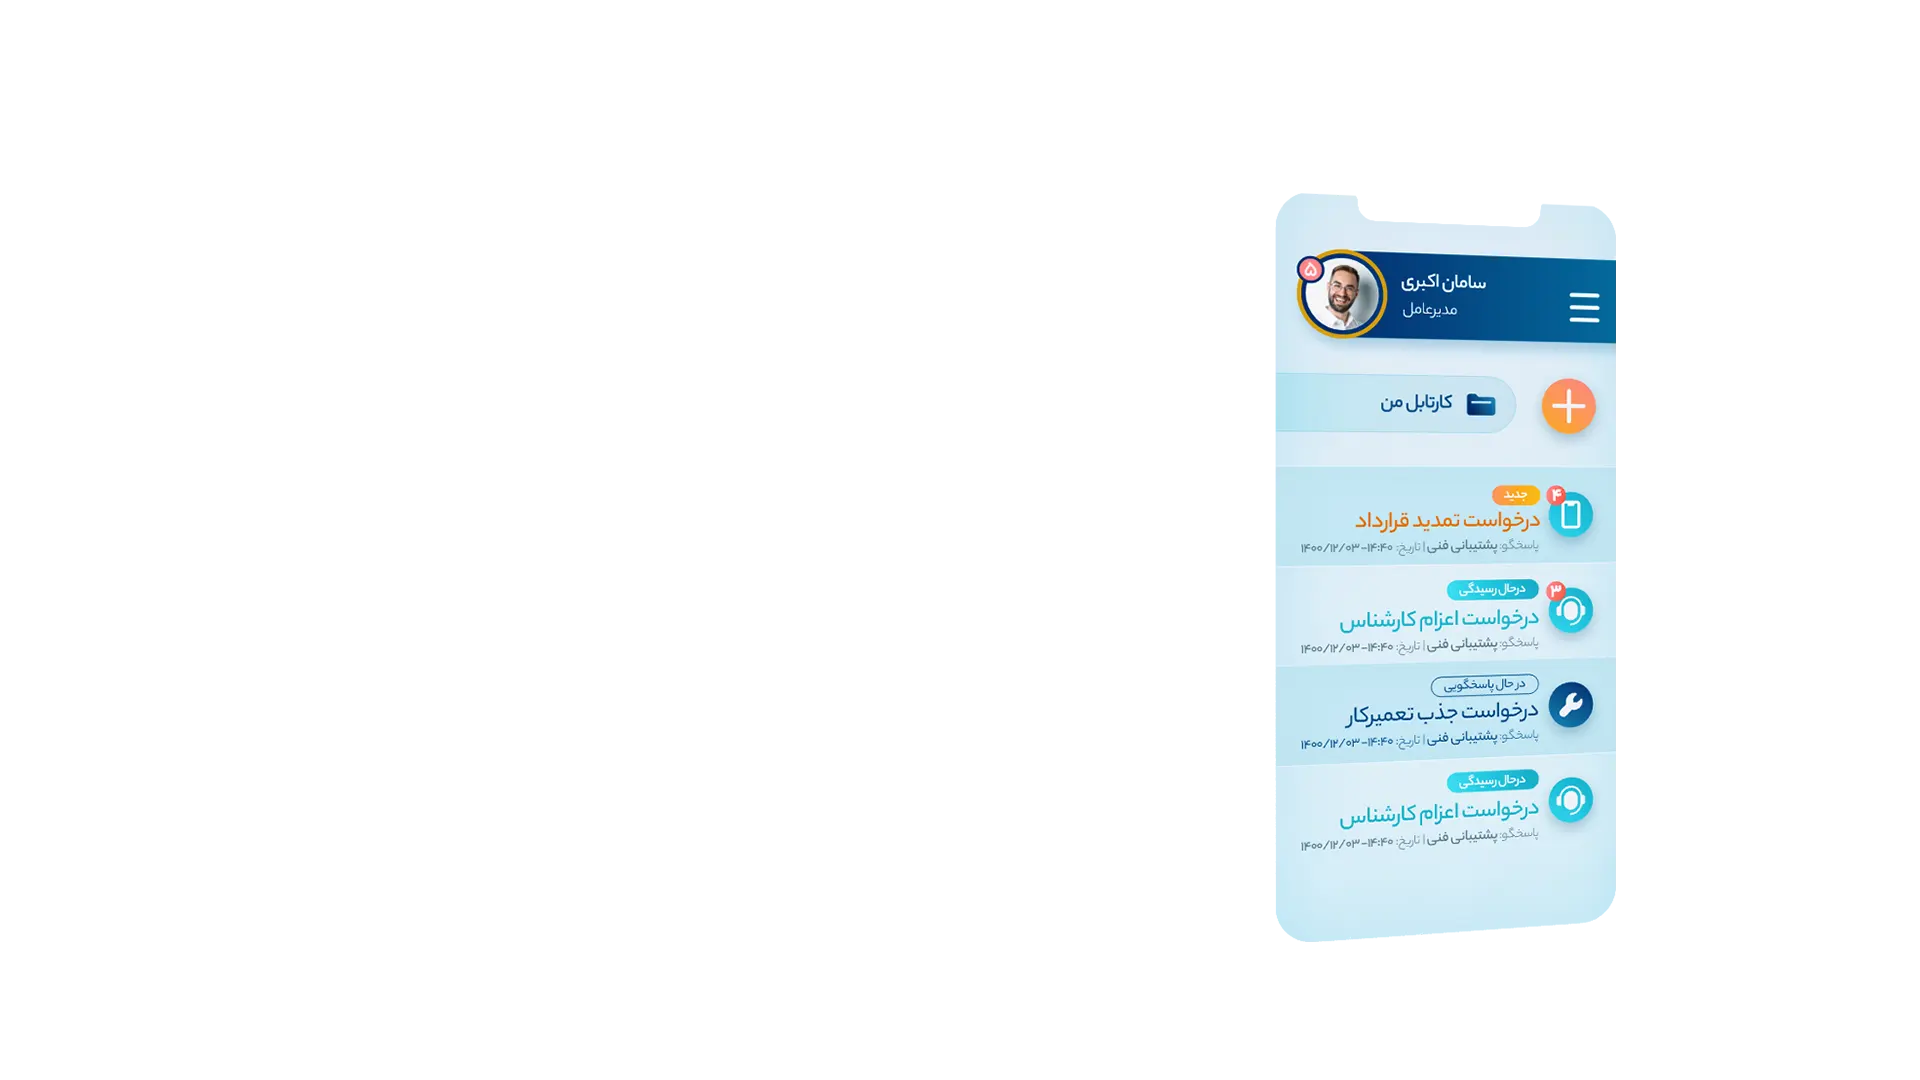
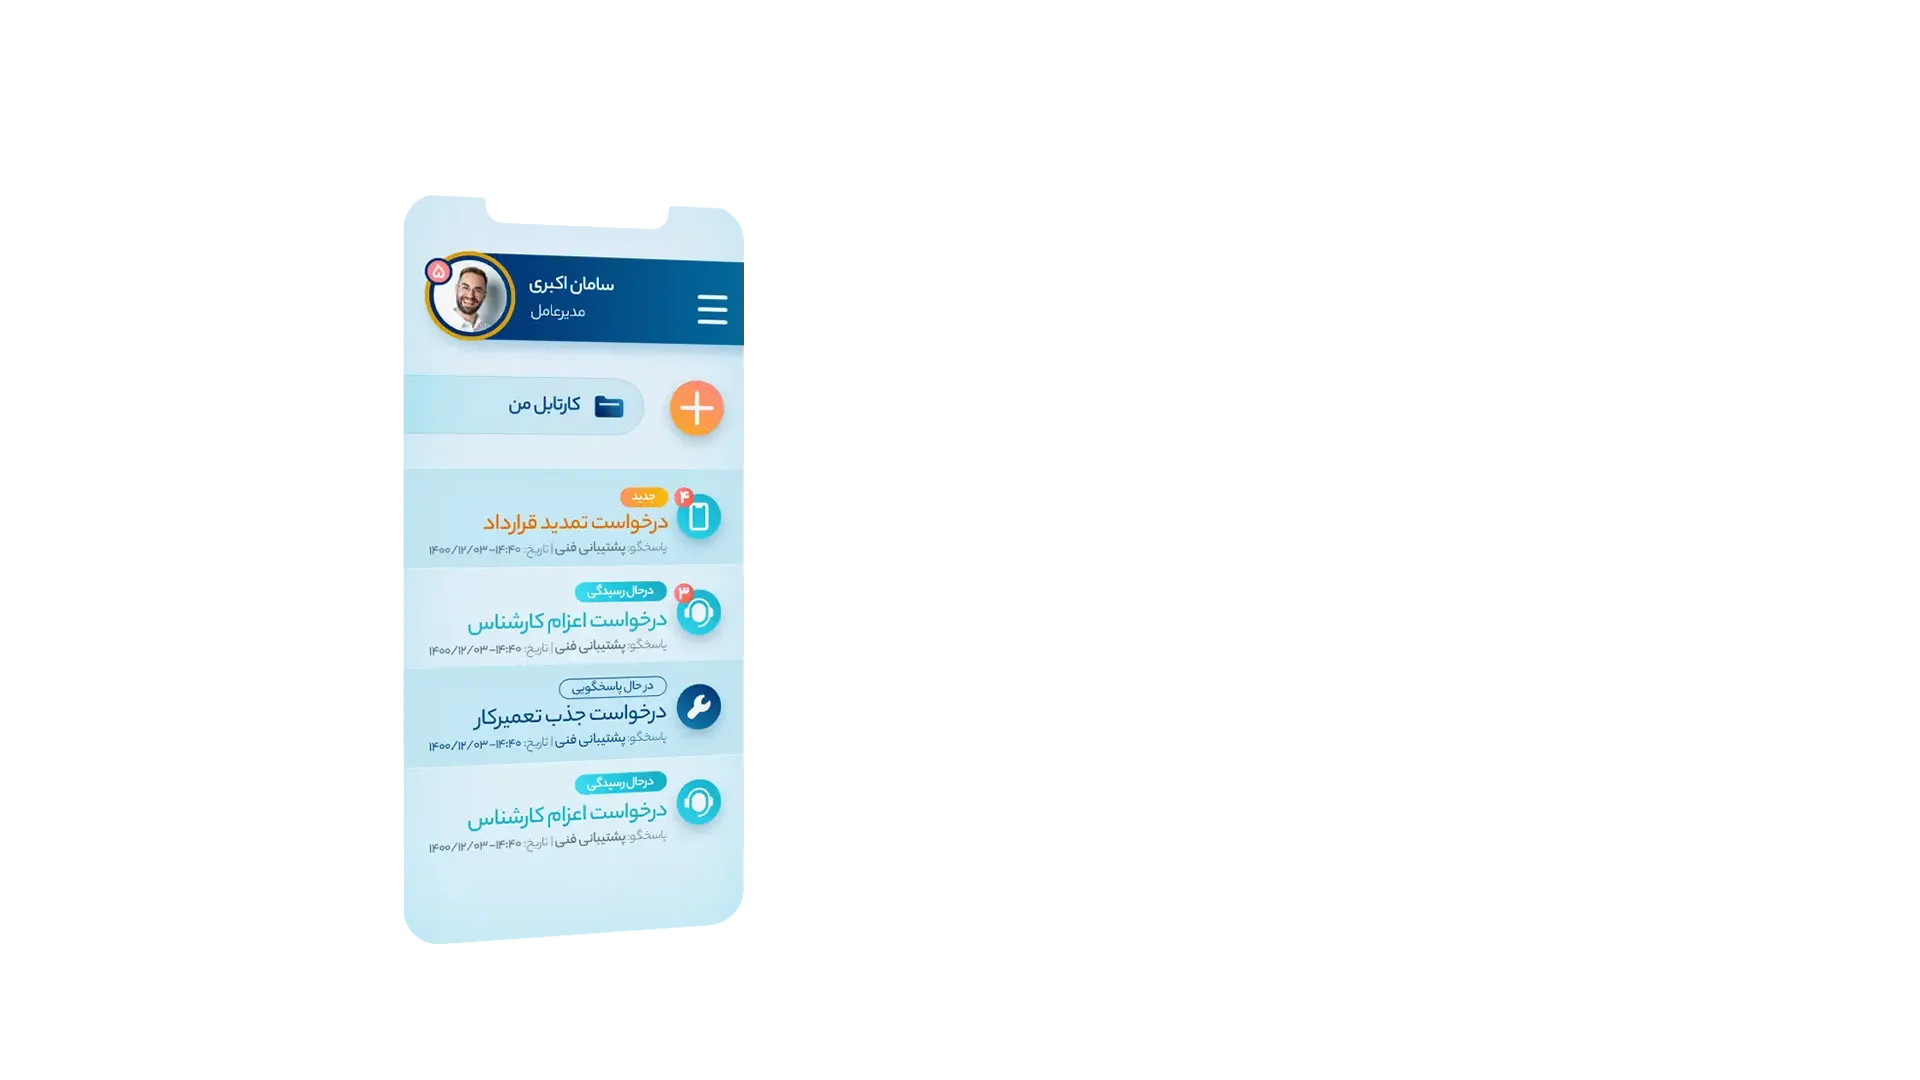
fix(advantages): fix section 4

Changed region(s): [[0.1875, 0.1833, 0.4062, 0.8861], [0.6562, 0.1833, 0.8438, 0.8861]]

diff --git a/src/components/Advantage/index.tsx b/src/components/Advantage/index.tsx
@@ -66,7 +66,7 @@ export default function Advantage() {
   const backgroundImageStyle = useSpring({
     from: { opacity: 1 },
     to: { opacity: index > 3 ? 0 : 1 },
-    delay: 1000,
+    delay: 1000 > 2 ? 0 : 1000,
     config: { duration: 500, easing: easings.easeOutQuart },
   });
 
@@ -76,15 +76,15 @@ export default function Advantage() {
       opacity: index > 3 ? 1 : 0,
       transform:
         index === 4
-          ? "scale(1) translateX(0%)"
+          ? "scale(1)"
           : index === 5 || index === 6
-          ? "scale(1) translateX(-90%)"
+          ? "scale(1)"
           : index > 6
-          ? "scale(0.8) translateX(-109%)"
-          : "scale(0.8) translateX(-109%)",
-      transformOrigin: index > 6 ? "left top" : "center",
+          ? "scale(0.8)"
+          : "scale(0.8)",
+      transformOrigin: index > 3 ? "left top" : "center",
     },
-    delay: index === 3 ? 1500 : 0,
+    delay: index > 4 ? 1500 : 0,
     config: { duration: 500, easing: easings.easeOutQuart },
   });
 
@@ -241,7 +241,7 @@ const CircleBack = styled(animated.div)`
   );
   position: absolute;
   top: 8vw;
-  right: 5.6vw;
+  left: 5.6vw;
   z-index: 20;
 `;
 

diff --git a/src/components/Advantage/advantageItems/index.tsx b/src/components/Advantage/advantageItems/index.tsx
@@ -65,12 +65,12 @@ export default function AdvantagesList({
   });
 
   const mobileImageStyle2 = useSpring({
-    from: { opacity: 0, transform: "translateX(10%)" },
+    from: { opacity: 0, transform: "translateX(-10%)" },
     to: {
       opacity: index === 4 ? 1 : 0,
-      transform: index === 4 ? "translateX(0%)" : "translateX(10%)",
+      transform: index === 4 ? "translateX(0%)" : "translateX(-10%)",
     },
-    delay: index === 3 ? 1000 : 0,
+    delay: index === 4 ? 1000 : 0,
     config: { duration: 1000, easing: easings.easeOutQuart },
   });
 
@@ -91,7 +91,7 @@ export default function AdvantagesList({
   const reportContentStyle = useSpring({
     from: { opacity: 0 },
     to: { opacity: index === 5 ? 1 : 0 },
-    delay: index === 4 ? 1500 : 0,
+    delay: index === 5 ? 1500 : 0,
     config: { duration: 1000, easing: easings.easeOutQuart },
   });
 
